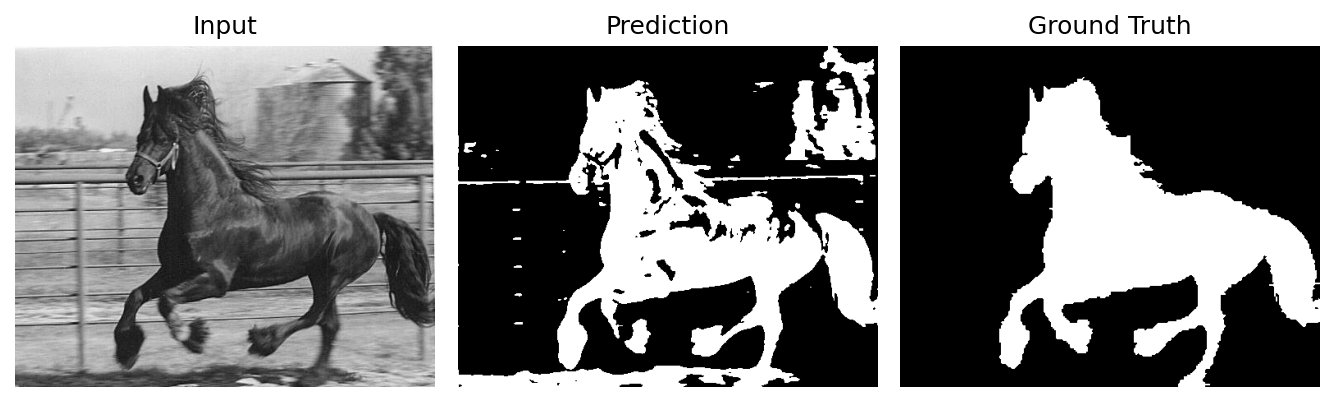
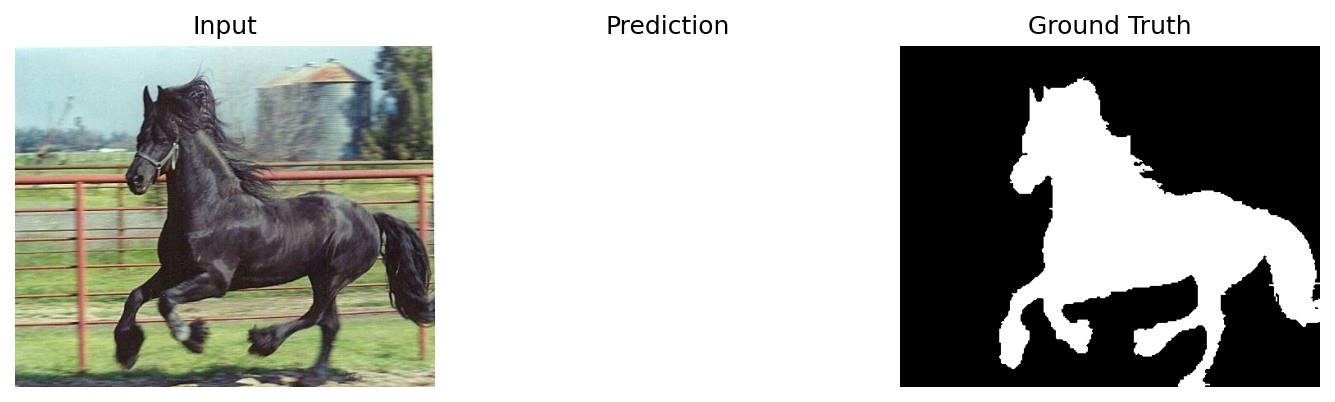
Update .gitignore, enhance WeizmannHorseDataset to load RGB images, and improve visualization functions

diff --git a/segGP/visualize.py b/segGP/visualize.py
@@ -8,6 +8,14 @@ from weizmann_loader import WeizmannHorseDataset
 
 device = 'cuda' if torch.cuda.is_available() else 'cpu'   # <-- this defines device
 
+def _to_numpy_img(img_t):
+    arr = img_t.cpu().numpy()  # (C,H,W)
+    if arr.ndim == 3 and arr.shape[0] == 3:
+        return np.transpose(arr, (1, 2, 0)), None   # (H,W,3)
+    if arr.ndim == 3 and arr.shape[0] == 1:
+        return arr[0], 'gray'                       # (H,W)
+    return arr, 'gray'
+
 def visualize_predictions(toolbox, individual, dataset, num_samples=3, threshold=0.5, save_dir=None):
     """
     Visualize predictions of a GP individual on samples from a dataset.
@@ -19,22 +27,25 @@ def visualize_predictions(toolbox, individual, dataset, num_samples=3, threshold
     idxs = np.random.choice(len(dataset), size=min(num_samples, len(dataset)), replace=False)
 
     for i, idx in enumerate(idxs):
-        img, mask = dataset[idx]  # img: (1,H,W), mask: (1,H,W)
+        img, mask = dataset[idx]                  # img: (3,H,W) or (1,H,W), mask: (1,H,W)
         with torch.no_grad():
-            inp = img.unsqueeze(0).to(device)         # (1,1,H,W)
-            out = torch.sigmoid(func(inp))            # (1,1,H,W)
-            pred = (out > threshold).float()          # (1,1,H,W)
+            inp  = img.unsqueeze(0).to(device)    # (1,C,H,W)
+            out  = func(inp)                      # (1,C',H,W)
+            if out.dim() == 4 and out.shape[1] > 1:
+                out = out.mean(dim=1, keepdim=True)
+            probs = torch.sigmoid(out)            # (1,1,H,W)
+            pred  = (probs > threshold).float()   # (1,1,H,W)
 
-        img_np  = img.squeeze(0).cpu().numpy()        # (H,W)
+        img_np, cmap_input = _to_numpy_img(img)
         mask_np = mask.squeeze(0).cpu().numpy()
         pred_np = pred.squeeze(0).squeeze(0).cpu().numpy()
 
         fig, axs = plt.subplots(1, 3, figsize=(9, 3))
-        axs[0].imshow(img_np, cmap='gray')
+        axs[0].imshow(img_np, cmap=cmap_input)
         axs[0].set_title("Input")
-        axs[1].imshow(pred_np, cmap='gray')
+        axs[1].imshow(pred_np, cmap='gray', vmin=0, vmax=1)
         axs[1].set_title("Prediction")
-        axs[2].imshow(mask_np, cmap='gray')
+        axs[2].imshow(mask_np, cmap='gray', vmin=0, vmax=1)
         axs[2].set_title("Ground Truth")
         for ax in axs: ax.axis('off')
         fig.tight_layout()
@@ -42,5 +53,5 @@ def visualize_predictions(toolbox, individual, dataset, num_samples=3, threshold
         if save_dir:
             fig.savefig(os.path.join(save_dir, f"vis_{i}_idx{idx}.png"), dpi=150, bbox_inches='tight')
             plt.close(fig)
-    if not save_dir:
-        plt.show()
+        else:
+            plt.show()

diff --git a/segGP/segGP_main.py b/segGP/segGP_main.py
@@ -4,6 +4,7 @@ import argparse
 
 import subprocess
 import random
+import traceback
 import torch
 from torch.utils.data import random_split, DataLoader
 import os
@@ -119,6 +120,7 @@ params = {
 pset = gp.PrimitiveSetTyped('MAIN', [torch.Tensor], torch.Tensor, prefix='Image')
 
 # Add arithmetic
+
 pset.addPrimitive(felgp_fs.add, [torch.Tensor, torch.Tensor], torch.Tensor, name="Add")
 pset.addPrimitive(felgp_fs.sub, [torch.Tensor, torch.Tensor], torch.Tensor, name="Sub")
 pset.addPrimitive(felgp_fs.mul, [torch.Tensor, torch.Tensor], torch.Tensor, name="Mul")
@@ -150,6 +152,8 @@ pset.addPrimitive(felgp_fs.gaussian_blur_param, [torch.Tensor, float], torch.Ten
 pset.addPrimitive(felgp_fs.pretrained_seg_nn, [torch.Tensor], torch.Tensor, name="PretrainedSeg")
 
 
+
+
 #Terminals
 # Float thresholds for Gt/Lt (use a named function for multiprocessing pickling)
 def rand_thresh():
@@ -157,6 +161,8 @@ def rand_thresh():
 pset.addEphemeralConstant('Thresh', rand_thresh, float)
 def rand_alpha(): return float(np.random.uniform(0.0, 1.0))
 pset.addEphemeralConstant('Alpha', rand_alpha, float)
+def rand_channel(): return random.randint(0, 2)
+pset.addEphemeralConstant('ChannelIdx', rand_channel, int)
 
 ##
 creator.create("FitnessMax", base.Fitness, weights=(1.0,))
@@ -173,10 +179,17 @@ toolbox.register("mapp", pool.map)
 _dbg_train_printed = False
 _dbg_test_printed = False
 
+def _ensure_single_channel(out: torch.Tensor) -> torch.Tensor:
+    # out: (N,C,H,W). If C>1, reduce to 1 via mean.
+    if out.dim() == 4 and out.shape[1] > 1:
+        out = out.mean(dim=1, keepdim=True)
+    return out
+
 def _binarize_from_logits(logits):
     # Robust: handle NaNs/Infs and non-float outputs
     if not logits.dtype.is_floating_point:
         logits = logits.float()
+    logits = _ensure_single_channel(logits)
     logits = torch.nan_to_num(logits, nan=0.0, posinf=10.0, neginf=-10.0)
     # Reduce to single channel if multi-channel
     if logits.dim() == 4 and logits.shape[1] > 1:
@@ -232,6 +245,7 @@ def evalTrain(toolbox, individual, hof):
         mean_dice = float(np.mean(dice_scores)) if dice_scores else 0.0
     except Exception as e:
         print("Evaluation error:", e)
+        traceback.print_exc()
         mean_dice = 0.0
     return (mean_dice,)
 

diff --git a/segGP/weizmann_loader.py b/segGP/weizmann_loader.py
@@ -56,21 +56,18 @@ class WeizmannHorseDataset(Dataset):
 
     def __getitem__(self, idx):
         fname = self.filenames[idx]
-        img = Image.open(os.path.join(self.img_dir, fname)).convert("L")
+        img = Image.open(os.path.join(self.img_dir, fname)).convert("RGB")  # keep color
         msk = Image.open(os.path.join(self.mask_dir, fname)).convert("L")
 
         if self.size is not None:
             img = img.resize(self.size, resample=Resampling.BILINEAR)
             msk = msk.resize(self.size, resample=Resampling.NEAREST)
 
-        img_np  = np.asarray(img, dtype=np.float32) / 255.0           # [0,1]
-        mask_u8 = np.asarray(msk, dtype=np.uint8)                     # 0 or 1 on disk
-        mask_np = (mask_u8 > 0).astype(np.float32)                    # {0,1}
+        img_np  = np.asarray(img, dtype=np.float32) / 255.0           # (H,W,3) in [0,1]
+        img_np  = np.transpose(img_np, (2, 0, 1))                     # (3,H,W)
+        mask_u8 = np.asarray(msk, dtype=np.uint8)
+        mask_np = (mask_u8 > 0).astype(np.float32)           # (H,W)
 
-        # Guard: warn if mask is empty after resize
-        if mask_np.max() == 0 and idx < 3:
-            print(f"[WARN] Empty mask after load/resize for {fname}")
-
-        img_t  = torch.from_numpy(img_np).unsqueeze(0)
-        mask_t = torch.from_numpy(mask_np).unsqueeze(0)
+        img_t  = torch.from_numpy(img_np)                    # (3,H,W)
+        mask_t = torch.from_numpy(mask_np).unsqueeze(0)      # (1,H,W)
         return img_t, mask_t

diff --git a/segGP/seggp_functions.py b/segGP/seggp_functions.py
@@ -77,10 +77,23 @@ def sqrt_f(x): return torch.sqrt(torch.clamp(x, min=0))
 def log_f(x): return torch.log1p(torch.abs(x))
 def exp_f(x): return torch.exp(torch.clamp(x, max=10))
 
+def _restore_shape(y: torch.Tensor, like: torch.Tensor) -> torch.Tensor:
+    # Return to 2D/3D if input was 2D/3D
+    if like.dim() == 2:      # (H,W)
+        return y.squeeze(0).squeeze(0)
+    if like.dim() == 3:      # (C,H,W)
+        return y.squeeze(0)
+    return y
+
 # normalization and activation functions
-def normalize(x):
-    x_min, x_max = x.min(), x.max()
-    return (x - x_min) / (x_max - x_min + 1e-6)
+def normalize(x: torch.Tensor) -> torch.Tensor:
+    xin = x
+    x = _as_nchw(x)
+    B, C, H, W = x.shape
+    mean = x.view(B, C, -1).mean(dim=2).view(B, C, 1, 1)
+    std = x.view(B, C, -1).std(dim=2).view(B, C, 1, 1) + 1e-6
+    y = (x - mean) / std
+    return _restore_shape(y, xin)
 
 def sigmoid(x): return torch.sigmoid(x)
 def tanh_f(x): return torch.tanh(x)
@@ -142,6 +155,7 @@ def pretrained_seg_nn(x: torch.Tensor) -> torch.Tensor:
 # endregion
 
 # region ==== Feature Extraction Functions ====
+
 
 # endregion
 
